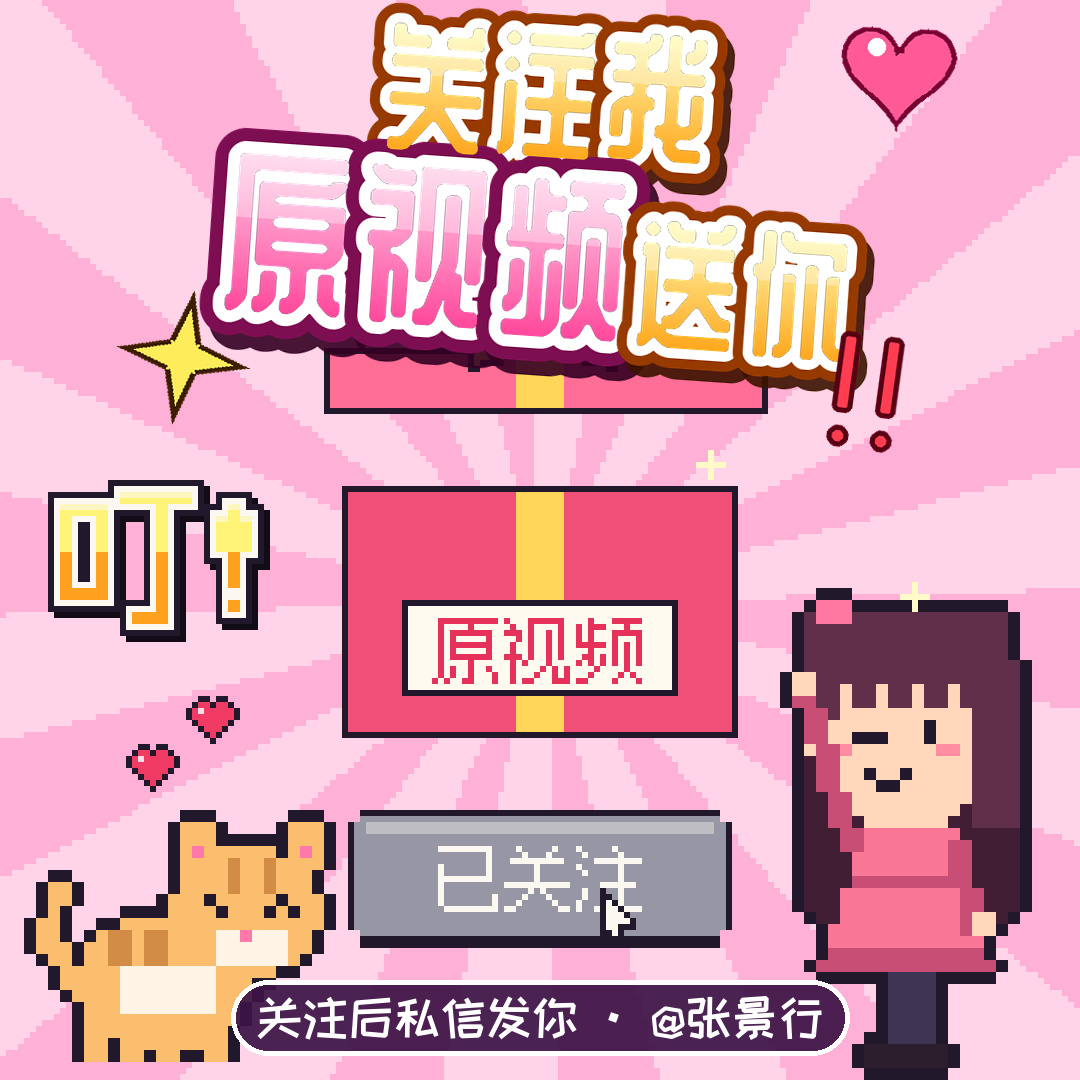
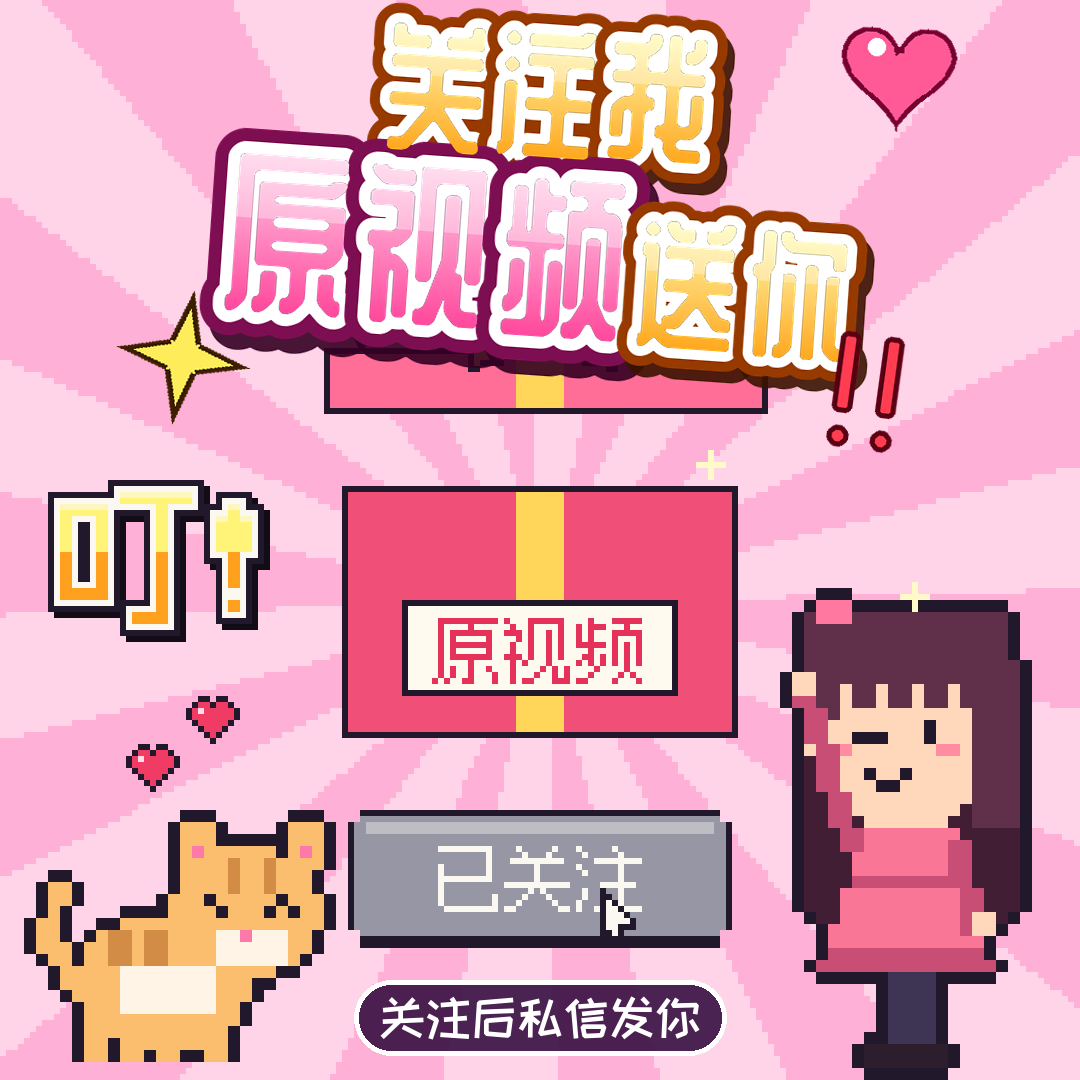
Sticker: drop @ handle from the bottom label
Claude-Session: https://claude.ai/code/session_01SUNukxbfvbvKQP3eB3RkW7

Changed region(s): [[0.2139, 0.8861, 0.7944, 0.9778]]

diff --git a/huxi-jueding/src/emoji.py b/huxi-jueding/src/emoji.py
@@ -84,7 +84,7 @@ TEXT = Z.Line(-5, 99, '关注我/原视频送你', pal='yel', kw=['原视频'], 
 def frame(t, size=1080):
     base = pixel_layer(t).resize((N * S, N * S), Image.NEAREST)
     TEXT.draw(base, 10.0 + (t % LOOP), beat_phase=(t % 0.6))
-    Z.pill(base, 540, 1018, '关注后私信发你 · @张景行', 50, bg=(60, 20, 70), edge=(255, 255, 255))
+    Z.pill(base, 540, 1018, '关注后私信发你', 50, bg=(60, 20, 70), edge=(255, 255, 255))
     return base if size == 1080 else base.resize((size, size), Image.LANCZOS)
 
 
